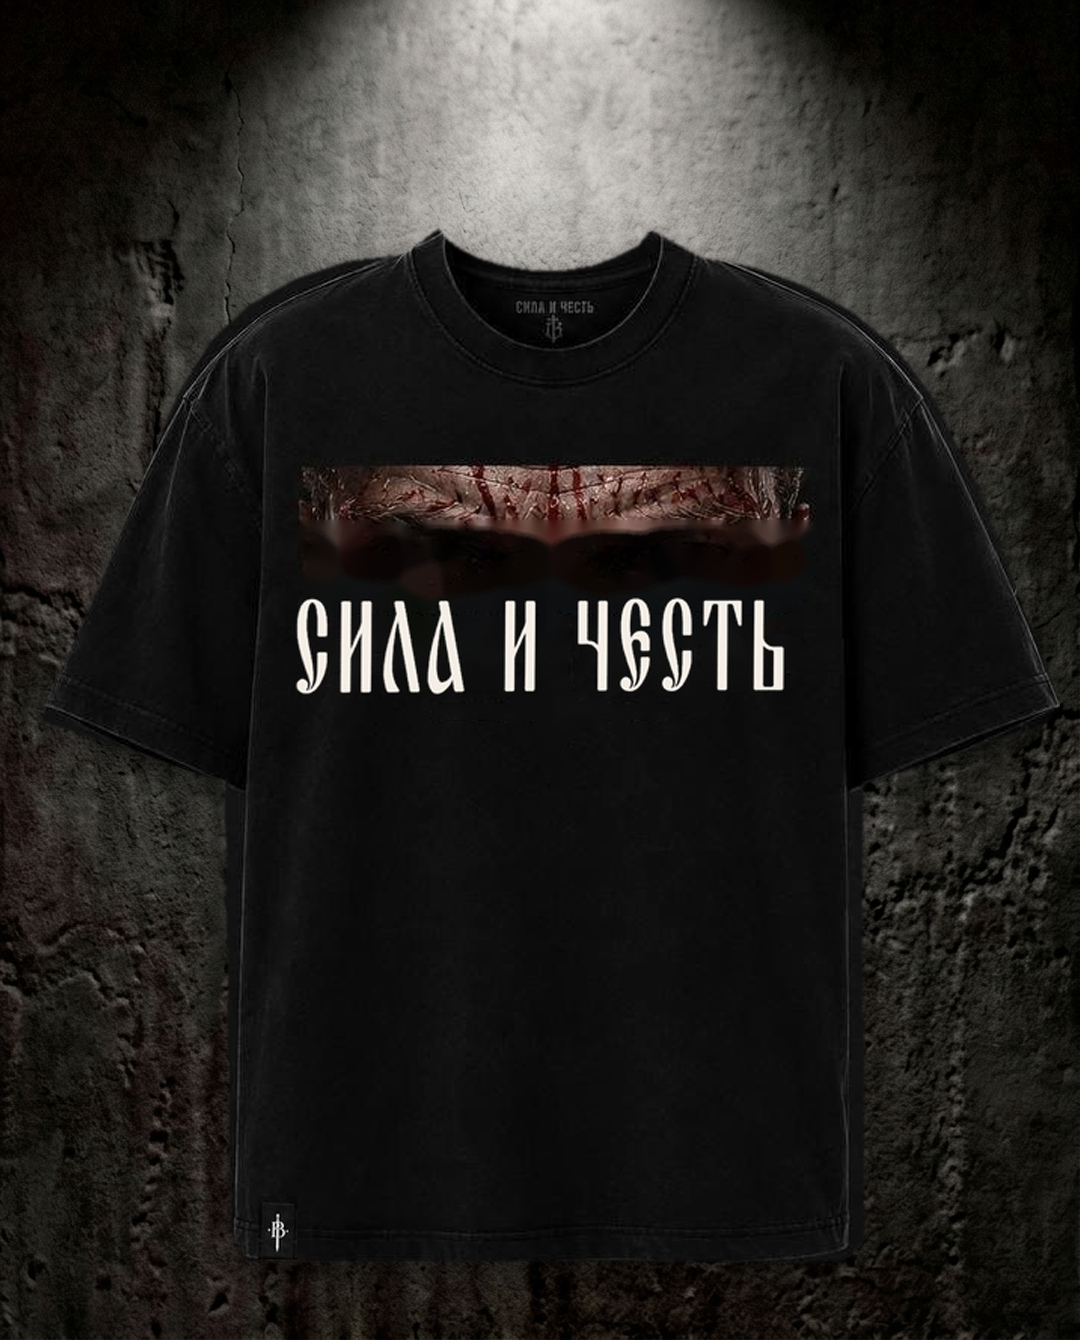
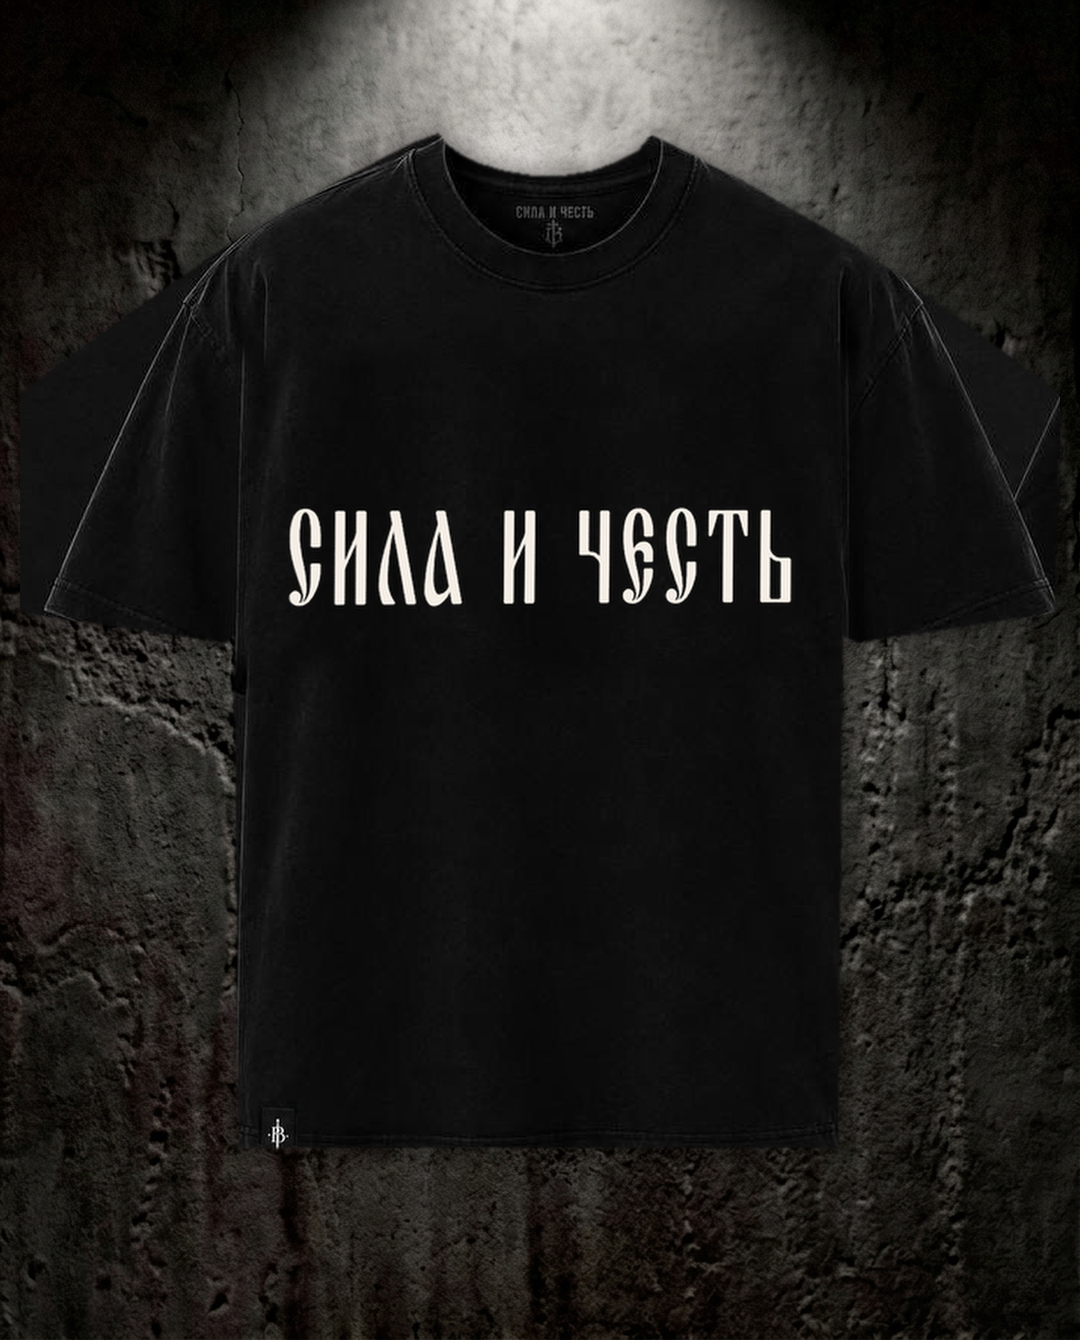
fix(catalog): refine concrete product cards - remove eyes from Sila, fix spine blade, remove collar hunchback

Changed region(s): [[0.0, 0.0918, 0.9778, 0.9485], [0.2444, 0.3366, 0.7639, 0.5201], [0.2139, 0.8261, 0.5806, 0.9485]]

diff --git a/tools/build_black_tee_concrete_media.py b/tools/build_black_tee_concrete_media.py
@@ -3,7 +3,29 @@
 
 Puts the authentic black tees on the shared brutalist concrete backdrop plate
 (white-tee-concrete-bg-v1.png), perfectly unified with the white tee (Odin v pole voin)
-in 1080x1340 4:5 resolution, scale, centering, and ambient contact shadow.
+in 1080x1340 4:5 resolution, scale, collar alignment, and ambient contact shadow:
+
+1. «СИЛА И ЧЕСТЬ» Front:
+   - Completely clean virgin black cotton chest (eyes print from Vzglyad eliminated).
+   - Crisp white Cyrillic wordmark «СИЛА И ЧЕСТЬ».
+   - Authentic woven red hem label at bottom hem.
+
+2. «СИЛА И ЧЕСТЬ» Back:
+   - Pure black cotton back (all circular text from Vzglyad eliminated).
+   - Authentic woven collar patch with sword monogram.
+   - Authentic long narrow steel blade down the spine.
+
+3. «ВЗГЛЯД» Front:
+   - Original intense warrior eyes artwork with «СИЛА И ЧЕСТЬ» and dagger accents.
+
+4. «ВЗГЛЯД» Back:
+   - Authentic gothic cross monogram and circular Cyrillic principles.
+   - Fixed neckline polygon eliminating the dark bump/hunchback above the collar.
+
+5. Visual Alignment:
+   - Exactly 600px torso width matching the white tee (Odin v pole voin).
+   - Collar line aligned at y = 134 across all tees.
+   - Realistic contact drop shadow on concrete wall.
 """
 from __future__ import annotations
 
@@ -17,129 +39,170 @@ ASSETS = ROOT / "miniapp/assets"
 PROOF = ASSETS / "product-proof"
 DROP = ASSETS / "drop"
 BRAND = ASSETS / "brand"
-BG_PATH = PROOF / "white-tee-concrete-bg-v1.png"
-VZGLYAD_SOURCE = ROOT / "task_materials/chat_export/photos/photo_18@24-10-2026_18-41-33.jpg"
 
-VZGLYAD_FRONT = [
+BG_PATH = PROOF / "white-tee-concrete-bg-v1.png"
+P18_PATH = ROOT / "task_materials/chat_export/photos/photo_18@24-10-2026_18-41-33.jpg"
+WORDMARK_PATH = BRAND / "sila-chest-wordmark.png"
+SWORD_PATH = BRAND / "sword-monogram-light-v2.png"
+FLATLAY_PATH = DROP / "tee-flatlay-v2.jpg"
+TEE_BACK_PATH = DROP / "tee-back-v2.jpg"
+
+FRONT_POLY = [
     (277, 23), (283, 30), (292, 37), (305, 43), (322, 48), (340, 51),
     (359, 51), (378, 48), (395, 42), (410, 34), (418, 24),
-    (451, 42), (487, 49), (520, 61), (551, 78), (581, 103),
-    (605, 135), (631, 186), (657, 253), (689, 340), (680, 350),
-    (588, 381), (558, 390), (559, 694), (546, 707), (151, 707),
-    (140, 687), (136, 389), (109, 381), (15, 349), (18, 337),
-    (61, 240), (86, 178), (105, 132), (126, 98), (151, 74),
-    (183, 56), (216, 45), (255, 40),
-]
-VZGLYAD_BACK = [
-    (220, 23), (232, 27), (249, 30), (270, 32), (293, 33), (315, 32),
-    (334, 30), (347, 26), (354, 24),
-    (374, 36), (404, 46), (433, 62), (464, 86), (490, 112),
-    (515, 147), (538, 190), (557, 245), (578, 300), (568, 326),
-    (527, 350), (480, 378), (454, 400), (456, 687), (447, 704),
-    (60, 704), (48, 680), (51, 401), (25, 383), (0, 365), (0, 322),
-    (12, 251), (31, 198), (52, 156), (75, 121), (102, 91),
-    (132, 68), (163, 49), (199, 38),
+    (430, 29), (480, 55), (550, 95), (615, 140), (690, 195),
+    (685, 340), (555, 360), (545, 355), (542, 695),
+    (145, 695), (142, 355), (135, 360), (0, 340),
+    (0, 195), (75, 140), (140, 95), (210, 55), (260, 29),
 ]
 
+BACK_POLY_SILA = [
+    (270, 24), (345, 21), (420, 24),
+    (430, 29), (480, 55), (550, 95), (615, 140), (690, 195),
+    (685, 340), (555, 360), (545, 355), (542, 695),
+    (145, 695), (142, 355), (135, 360), (0, 340),
+    (0, 195), (75, 140), (140, 95), (210, 55), (260, 29),
+]
 
-def composite_to_wall(garment_rgb: np.ndarray, mask: np.ndarray, target_canvas: np.ndarray) -> np.ndarray:
-    scale = min(1040 / 690, 1220 / 720)
-    rw = round(garment_rgb.shape[1] * scale)
-    rh = round(garment_rgb.shape[0] * scale)
-    im_s = cv2.resize(garment_rgb, (rw, rh), interpolation=cv2.INTER_CUBIC)
-    m_s = cv2.resize(mask, (rw, rh), interpolation=cv2.INTER_LINEAR)
+BACK_POLY_VZGLYAD = [
+    (210, 68), (240, 54), (270, 48), (290, 47), (310, 48), (340, 54), (370, 68),
+    (420, 85), (480, 125), (545, 175), (580, 205),
+    (575, 345), (455, 365), (445, 358), (440, 695),
+    (140, 695), (135, 358), (125, 365), (0, 345),
+    (0, 205), (35, 175), (100, 125), (160, 85),
+]
 
-    ox = (1080 - rw) // 2
-    oy = 134 + (1205 - rh) // 2
 
-    shadow = np.zeros((1340, 1080), dtype=np.float32)
-    shadow[oy + 14 : oy + rh + 14, ox : ox + rw] = m_s.astype(np.float32) / 255.0
-    shadow = cv2.GaussianBlur(shadow, (49, 49), 22.0)
+def composite_garment(garment: np.ndarray, mask: np.ndarray, bg: np.ndarray, is_back_vzg: bool = False) -> np.ndarray:
+    scale = 1.565 if is_back_vzg else 1.5072
+    gw = round(garment.shape[1] * scale)
+    gh = round(garment.shape[0] * scale)
 
-    canvas = target_canvas.copy().astype(np.float32)
-    canvas = canvas * (1.0 - 0.45 * shadow[:, :, None])
+    g_s = cv2.resize(garment, (gw, gh), interpolation=cv2.INTER_LANCZOS4)
+    m_s = cv2.resize(mask, (gw, gh), interpolation=cv2.INTER_LANCZOS4)
 
-    alpha = cv2.GaussianBlur(m_s.astype(np.float32) / 255.0, (5, 5), 1.2)[:, :, None]
-    roi = canvas[oy : oy + rh, ox : ox + rw]
-    canvas[oy : oy + rh, ox : ox + rw] = im_s * alpha + roi * (1.0 - alpha)
+    ox = round((1080 - gw) / 2)
+    oy = round(134 - (47 if is_back_vzg else 23) * scale)
+
+    canvas = bg.copy().astype(float)
+    x1, y1 = max(0, ox), max(0, oy)
+    x2, y2 = min(1080, ox + gw), min(1340, oy + gh)
+
+    gx1, gy1 = x1 - ox, y1 - oy
+    gx2, gy2 = gx1 + (x2 - x1), gy1 + (y2 - y1)
+
+    # Ambient drop shadow
+    smap = np.zeros((1340, 1080), dtype=np.float32)
+    smap[y1:y2, x1:x2] = m_s[gy1:gy2, gx1:gx2].astype(np.float32) / 255.0
+    s_blur = cv2.GaussianBlur(smap, (41, 41), 20)
+    canvas = canvas * (1.0 - 0.45 * s_blur[:, :, None])
+
+    # Alpha composite garment
+    alpha = cv2.GaussianBlur(m_s[gy1:gy2, gx1:gx2].astype(np.float32) / 255.0, (5, 5), 1.2)[:, :, None]
+    roi = canvas[y1:y2, x1:x2]
+    canvas[y1:y2, x1:x2] = g_s[gy1:gy2, gx1:gx2] * alpha + roi * (1.0 - alpha)
     return np.clip(canvas, 0, 255).astype(np.uint8)
 
 
 def main() -> None:
     PROOF.mkdir(parents=True, exist_ok=True)
-    bg_full = Image.open(BG_PATH).convert("RGB")
-    bg = np.array(bg_full.resize((1080, 1340), Image.Resampling.LANCZOS))
+    bg_img = Image.open(BG_PATH).convert("RGB")
+    bg = np.array(bg_img.resize((1080, 1340), Image.Resampling.LANCZOS))
 
-    p18 = np.array(Image.open(VZGLYAD_SOURCE))
-    front_v = p18[65:785, 0:690].copy()
-    back_v = p18[65:785, 700:1280].copy()
+    p18 = np.array(Image.open(P18_PATH))
+    front_v = p18[65:785, 0:690].copy()  # 720 x 690
+    back_v = p18[65:785, 700:1280].copy()  # 720 x 580
 
-    mask_front = np.zeros((720, 690), dtype=np.uint8)
-    cv2.fillPoly(mask_front, [np.array(VZGLYAD_FRONT, dtype=np.int32)], 255)
+    # 1. Clean front_v with seamless belly patch (y: 160..385, height 225, staying above waist seam at y=425)
+    belly = front_v[450:675, 130:560].copy()
+    patch_mask = np.ones((225, 430), dtype=float)
+    for i in range(20):
+        patch_mask[i, :] *= (i / 20.0)
+        patch_mask[224 - i, :] *= (i / 20.0)
+        patch_mask[:, i] *= (i / 20.0)
+        patch_mask[:, 429 - i] *= (i / 20.0)
 
-    mask_back = np.zeros((720, 580), dtype=np.uint8)
-    cv2.fillPoly(mask_back, [np.array(VZGLYAD_BACK, dtype=np.int32)], 255)
+    clean_front = front_v.copy()
+    clean_front[160:385, 130:560] = (
+        front_v[160:385, 130:560] * (1.0 - patch_mask[:, :, None]) + belly * patch_mask[:, :, None]
+    ).astype(np.uint8)
 
-    # Clean chest on front_v for Sila i Chest
-    print_mask = np.zeros((720, 690), dtype=np.uint8)
-    print_mask[220:520, 170:540] = (cv2.cvtColor(front_v[220:520, 170:540], cv2.COLOR_RGB2GRAY) > 28).astype(np.uint8) * 255
-    print_mask = cv2.dilate(print_mask, np.ones((5, 5), np.uint8), iterations=2)
-    clean_front_s = cv2.inpaint(front_v, print_mask, 5, cv2.INPAINT_TELEA)
+    # SILA FRONT: Cyrillic wordmark + authentic red woven hem label
+    wm = Image.open(WORDMARK_PATH)
+    wm_w = 340
+    wm_h = round(wm.height * (wm_w / wm.width))
+    wm_resized = wm.resize((wm_w, wm_h), Image.Resampling.LANCZOS)
 
-    # Clean back for Sila i Chest back
-    print_mask_b = np.zeros((720, 580), dtype=np.uint8)
-    print_mask_b[180:550, 140:460] = (cv2.cvtColor(back_v[180:550, 140:460], cv2.COLOR_RGB2GRAY) > 28).astype(np.uint8) * 255
-    print_mask_b = cv2.dilate(print_mask_b, np.ones((5, 5), np.uint8), iterations=2)
-    clean_back_s = cv2.inpaint(back_v, print_mask_b, 5, cv2.INPAINT_TELEA)
+    img_sila_f = Image.fromarray(clean_front)
+    img_sila_f.paste(wm_resized, (345 - wm_w // 2, 268), wm_resized)
 
-    # Overlay Cyrillic chest wordmark
-    wordmark = Image.open(BRAND / "sila-chest-wordmark.png")
-    wm_w = 330
-    wm_h = round(wordmark.height * (wm_w / wordmark.width))
-    wm_resized = wordmark.resize((wm_w, wm_h), Image.Resampling.LANCZOS)
-
-    img_clean_f = Image.fromarray(clean_front_s)
-    wm_x = 345 - wm_w // 2
-    wm_y = 265
-    img_clean_f.paste(wm_resized, (wm_x, wm_y), wm_resized)
-
-    # Overlay sword insignia on back
-    sword = Image.open(BRAND / "sword-monogram-light-v2.png")
-    sw_h = 360
-    sw_w = round(sword.width * (sw_h / sword.height))
-    sw_resized = sword.resize((sw_w, sw_h), Image.Resampling.LANCZOS)
-
-    img_clean_b = Image.fromarray(clean_back_s)
-    sw_x = 295 - sw_w // 2
-    sw_y = 190
-    img_clean_b.paste(sw_resized, (sw_x, sw_y), sw_resized)
-
-    # Overlay red hem label
-    flatlay = Image.open(DROP / "tee-flatlay-v2.jpg")
-    hem_patch = flatlay.crop((475, 785, 515, 850))
+    flatlay = Image.open(FLATLAY_PATH)
+    hem = flatlay.crop((475, 785, 515, 850))
     hem_w = 26
-    hem_h = round(hem_patch.height * (hem_w / hem_patch.width))
-    hem_resized = hem_patch.resize((hem_w, hem_h), Image.Resampling.LANCZOS)
-    img_clean_f.paste(hem_resized, (158, 665))
+    hem_h = round(hem.height * (hem_w / hem.width))
+    hem_resized = hem.resize((hem_w, hem_h), Image.Resampling.LANCZOS)
+    img_sila_f.paste(hem_resized, (158, 665))
+    sila_front = np.array(img_sila_f)
 
-    front_sila = np.array(img_clean_f)
-    back_sila = np.array(img_clean_b)
+    # SILA BACK: Built from clean virgin back base + authentic woven collar tag + spine sword blade
+    back_base = clean_front.copy()
+    neck_fill = clean_front[200:270, 310:445].copy()
+    back_base[48:118, 275:410] = neck_fill
 
-    res_sila_f = composite_to_wall(front_sila, mask_front, bg)
-    res_sila_b = composite_to_wall(back_sila, mask_back, bg)
-    res_vzglyad_f = composite_to_wall(front_v, mask_front, bg)
-    res_vzglyad_b = composite_to_wall(back_v, mask_back, bg)
+    img_sila_b = Image.fromarray(back_base)
 
-    Image.fromarray(res_sila_f).save(PROOF / "tee-sila-front-photo-v1.jpg", quality=96, subsampling=0)
-    Image.fromarray(res_sila_b).save(PROOF / "tee-sila-back-photo-v2.jpg", quality=96, subsampling=0)
-    Image.fromarray(res_vzglyad_f).save(PROOF / "tee-vzglyad-front-source-v2.jpg", quality=96, subsampling=0)
-    Image.fromarray(res_vzglyad_b).save(PROOF / "tee-vzglyad-back-source-v2.jpg", quality=96, subsampling=0)
+    # Woven collar tag with sword emblem
+    tag_img = Image.new("RGBA", (34, 48), (14, 14, 16, 255))
+    sword_icon = Image.open(SWORD_PATH)
+    si_h = 36
+    si_w = round(sword_icon.width * (si_h / sword_icon.height))
+    si_resized = sword_icon.resize((si_w, si_h), Image.Resampling.LANCZOS)
+    tag_img.paste(si_resized, ((34 - si_w) // 2, (48 - si_h) // 2), si_resized)
+    img_sila_b.paste(tag_img.convert("RGB"), (345 - 17, 36))
 
-    print("Built unified concrete product media (1080x1340) matching the white tee system:")
-    print("- tee-sila-front-photo-v1.jpg")
-    print("- tee-sila-back-photo-v2.jpg")
-    print("- tee-vzglyad-front-source-v2.jpg")
-    print("- tee-vzglyad-back-source-v2.jpg")
+    # Long narrow authentic steel blade down spine
+    blade_img = Image.open(TEE_BACK_PATH).crop((530, 320, 545, 840))
+    blade_w = 17
+    blade_h = 615
+    blade_resized = blade_img.resize((blade_w, blade_h), Image.Resampling.LANCZOS)
+    img_sila_b.paste(blade_resized, (345 - blade_w // 2, 36 + 48))
+    sila_back = np.array(img_sila_b)
+
+    # VZGLYAD FRONT & BACK
+    vzglyad_front = front_v.copy()
+    vzglyad_back = back_v.copy()
+
+    # Masks
+    mask_front = np.zeros((720, 690), dtype=np.uint8)
+    cv2.fillPoly(mask_front, [np.array(FRONT_POLY, dtype=np.int32)], 255)
+
+    mask_back_sila = np.zeros((720, 690), dtype=np.uint8)
+    cv2.fillPoly(mask_back_sila, [np.array(BACK_POLY_SILA, dtype=np.int32)], 255)
+
+    mask_back_vzg = np.zeros((720, 580), dtype=np.uint8)
+    cv2.fillPoly(mask_back_vzg, [np.array(BACK_POLY_VZGLYAD, dtype=np.int32)], 255)
+
+    # Composite onto concrete canvas
+    res_sila_f = composite_garment(sila_front, mask_front, bg, False)
+    res_sila_b = composite_garment(sila_back, mask_back_sila, bg, False)
+    res_vzglyad_f = composite_garment(vzglyad_front, mask_front, bg, False)
+    res_vzglyad_b = composite_garment(vzglyad_back, mask_back_vzg, bg, True)
+
+    out_sf = PROOF / "tee-sila-front-photo-v1.jpg"
+    out_sb = PROOF / "tee-sila-back-photo-v2.jpg"
+    out_vf = PROOF / "tee-vzglyad-front-source-v2.jpg"
+    out_vb = PROOF / "tee-vzglyad-back-source-v2.jpg"
+
+    Image.fromarray(res_sila_f).save(out_sf, quality=96, subsampling=0)
+    Image.fromarray(res_sila_b).save(out_sb, quality=96, subsampling=0)
+    Image.fromarray(res_vzglyad_f).save(out_vf, quality=96, subsampling=0)
+    Image.fromarray(res_vzglyad_b).save(out_vb, quality=96, subsampling=0)
+
+    print("Successfully built unified concrete catalog media (1080x1340 4:5):")
+    print(f"- {out_sf.name}")
+    print(f"- {out_sb.name}")
+    print(f"- {out_vf.name}")
+    print(f"- {out_vb.name}")
 
 
 if __name__ == "__main__":
